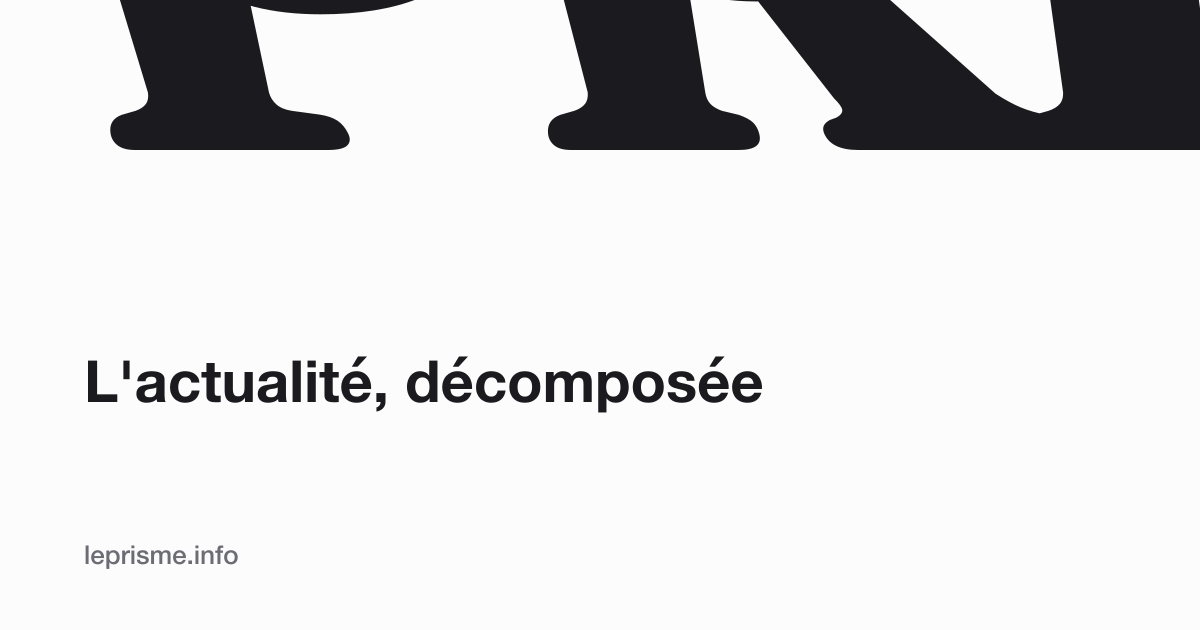
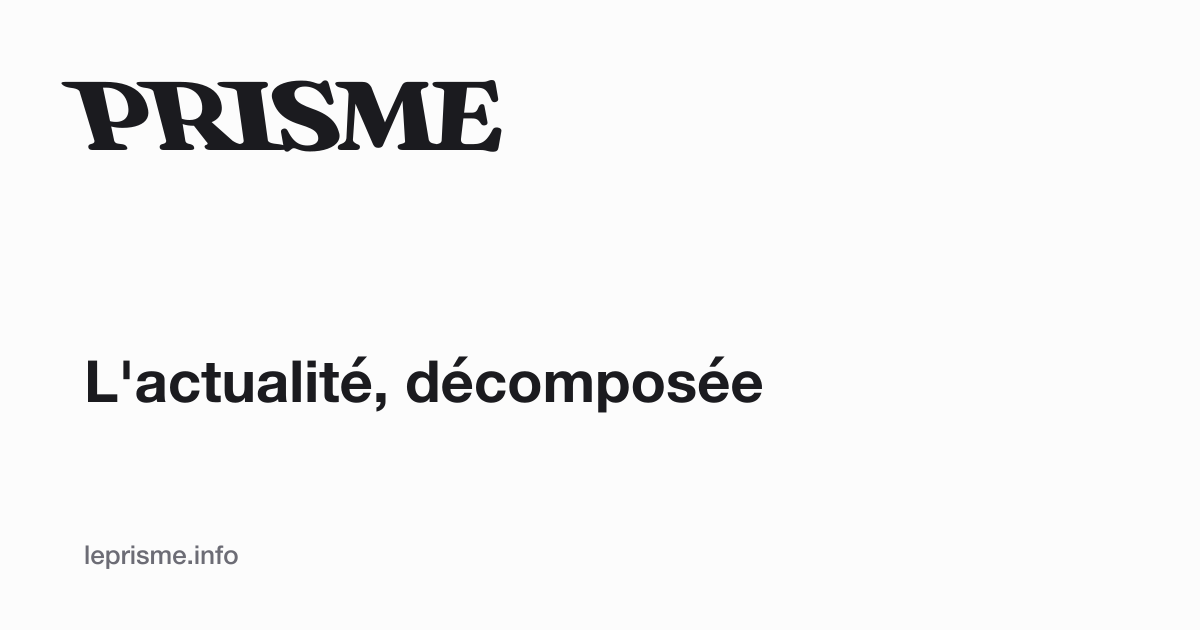
fix(web): og card wordmark scaled by height instead of width
The viewBox numbers were destructured with a leading skip meant for a
regex full-match, shifting every value: scale became wordmarkWidth /
height, blowing the wordmark up ~6x and off the card.

Changed region(s): [[0.0308, 0.0, 0.6475, 0.2413], [0.6167, 0.0, 1.0, 0.2413]]

diff --git a/web/scripts/generate-og-image.ts b/web/scripts/generate-og-image.ts
@@ -54,7 +54,7 @@ const LAYOUT = {
 
 async function ogImageSvg(): Promise<string> {
   const svg = await readFile(ASSET, 'utf8');
-  const [, x, y, w, h] = svg
+  const [x, y, w, h] = svg
     .match(/viewBox="([^"]+)"/)![1]
     .split(' ')
     .map(Number);
